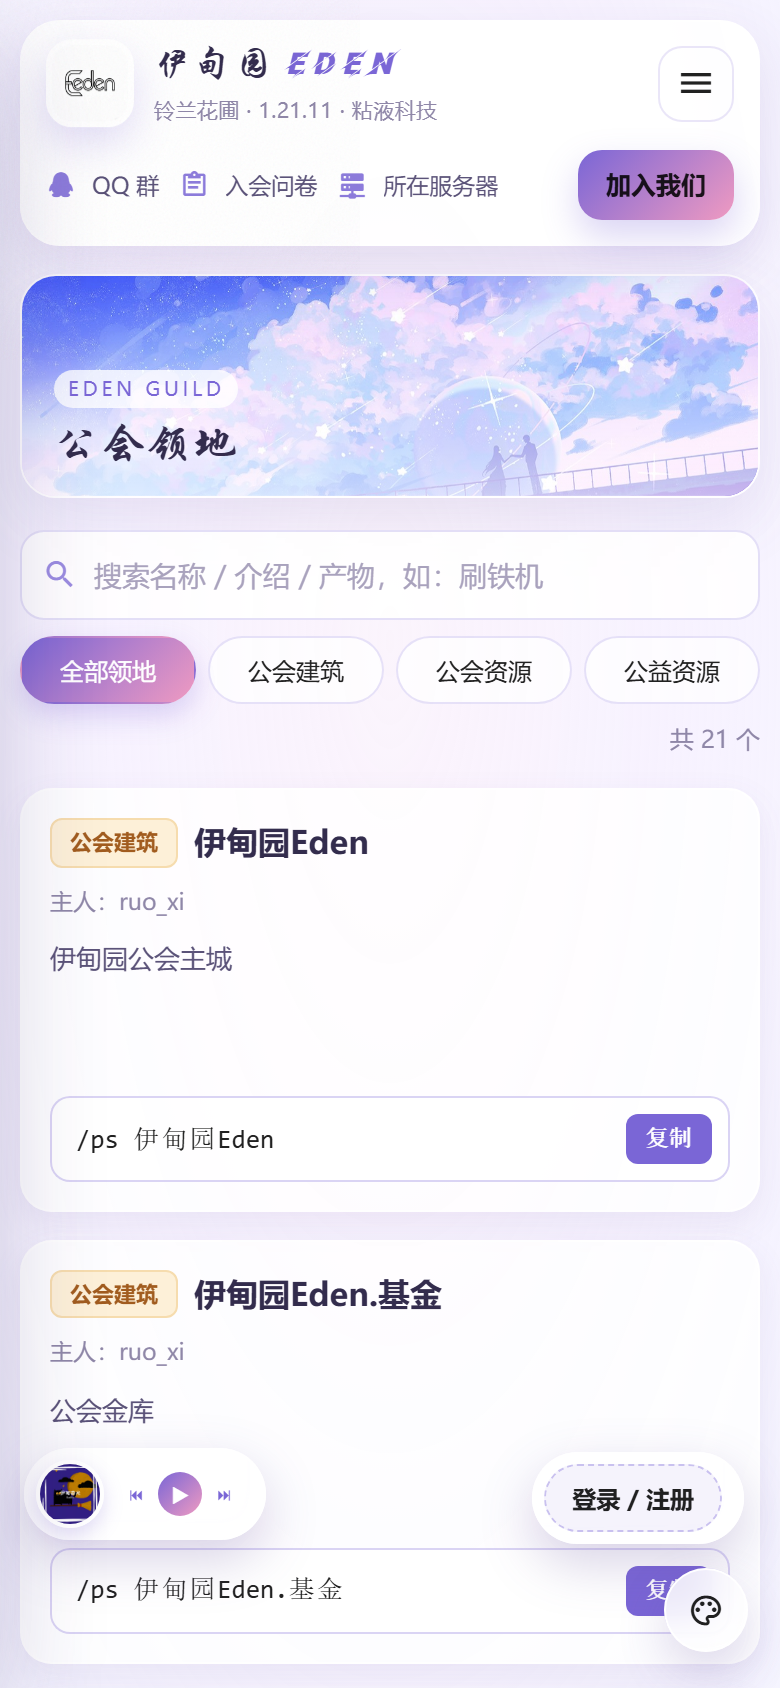
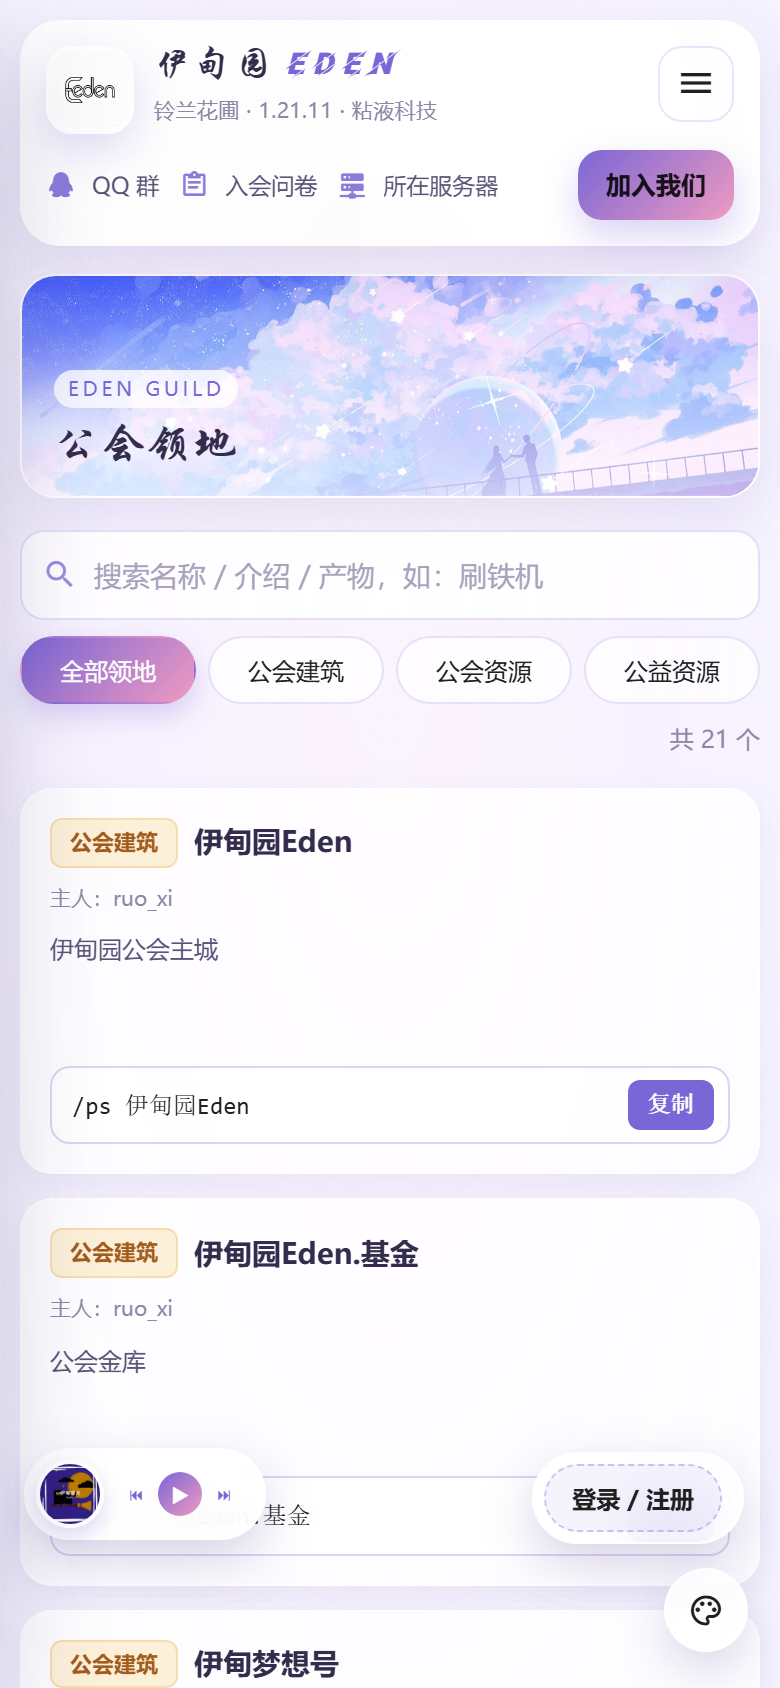
优化

diff --git a/public/css/app.less b/public/css/app.less
@@ -810,8 +810,8 @@ a.contact-row:hover {
 .territory {
   display: flex;
   flex-direction: column;
-  gap: 10px;
-  padding: 16px;
+  gap: 8px;
+  padding: 12px 13px;
   background: var(--eden-card-2);
   border: 1px solid var(--eden-border);
   border-radius: 16px;
@@ -844,7 +844,7 @@ a.contact-row:hover {
 
 .territory h3 {
   margin: 0;
-  font-size: 16px;
+  font-size: 14.5px;
   font-weight: 800;
   color: var(--eden-ink);
   word-break: break-word;
@@ -852,13 +852,13 @@ a.contact-row:hover {
 
 .territory .desc {
   margin: 0;
-  font-size: 13px;
+  font-size: 12px;
   color: var(--eden-ink-2);
 }
 
 .territory .owner {
   margin-left: auto;
-  font-size: 11.5px;
+  font-size: 10.5px;
   color: var(--eden-muted);
 }
 
@@ -868,9 +868,9 @@ a.contact-row:hover {
   gap: 8px;
   flex-wrap: nowrap;
   overflow: hidden;
-  padding: 8px 10px;
-  font-size: 12.5px;
-  line-height: 1.55;
+  padding: 6px 9px;
+  font-size: 11.5px;
+  line-height: 1.5;
   color: #1f7a68;
   background: rgba(76, 174, 135, 0.09);
   border: 1px solid rgba(76, 174, 135, 0.22);
@@ -899,12 +899,12 @@ a.contact-row:hover {
 .cmd {
   display: flex;
   align-items: center;
-  gap: 8px;
+  gap: 6px;
   width: 100%;
   margin-top: 2px;
-  padding: 8px 8px 8px 12px;
+  padding: 6px 7px 6px 10px;
   font-family: ui-monospace, SFMono-Regular, Menlo, Consolas, monospace;
-  font-size: 13px;
+  font-size: 12px;
   color: var(--eden-accent);
   background: rgba(255, 255, 255, 0.9);
   border: 1px solid rgba(122, 102, 214, 0.28);
@@ -2092,31 +2092,35 @@ html.has-bg-video .eden-veil {
   color: rgba(103, 84, 160, 0.32);
 }
 
-/* 双领地：两条指令并排显示 */
+/* 双维度：两条指令左右并排 */
 .cmd-label {
   margin-left: 6px;
   font-style: normal;
-  font-size: 10.5px;
+  font-size: 10px;
   color: var(--eden-muted);
 }
 
 .cmd-list {
   display: flex;
-  flex-direction: column;
+  flex-direction: row;
   gap: 6px;
   margin-top: 2px;
 }
 
 .cmd-list .cmd {
+  flex: 1 1 0;
+  min-width: 0;
   margin-top: 0;
+  padding: 6px 6px 6px 8px;
 }
 /* 公会建筑没有产物：留一段等高的空白，标签和底色都不可见 */
 .products-blank {
   visibility: hidden;
 }
 /* =========================================================================
-   侧栏内容整体缩小一档（只作用于 .eden-side 内部）
+   侧栏内容整体缩小一档（只作用于桌面端侧栏，移动端顶部卡片不受影响）
    ========================================================================= */
+@media (min-width: 1025px) {
 .eden-side .eden-logo {
   width: 58px;
   height: 58px;
@@ -2226,4 +2230,11 @@ html.has-bg-video .eden-veil {
   margin-top: 10px;
   padding: 8px 10px;
   font-size: 12.5px;
+}
+}
+
+/* 双维度卡片里两条指令的复制按钮小一点，保证并排不挤 */
+.cmd-list .cmd .copy {
+  padding: 3px 6px;
+  font-size: 10.5px;
 }

diff --git a/src/config.js b/src/config.js
@@ -141,8 +141,8 @@ const config = {
 		{ type: 'private', cmd: '伊甸园工业区.s', desc: '64 核黑金刚熔炉组', products: '烧炼产物（铁锭、金锭、石头等）', owner: 'guoguo' },
 		{ type: 'private', cmd: '伊甸园工业区.t', desc: '粘液刷铁机', products: '铁锭、铁块', owner: 'guoguo' },
 		{ type: 'private', cmd: 'player的刷铁机', desc: '生电刷铁机', products: '铁锭、基础电路板', owner: 'GamePlayer1' },
-		{ type: 'private', cmd: 'dl/gl', desc: '凋零骷髅塔（双领地）', products: '骨块、煤炭块、凋零骷髅头', owner: 'XIAOXINLI', cmds: [{ label: '产物', cmd: 'dl' }, { label: '挂机', cmd: 'gl' }] },
-		{ type: 'private', cmd: 'yf/tm', desc: '凋零骷髅塔（双领地）', products: '骨块、煤炭块、凋零骷髅头', owner: 'XIAOXINLI', cmds: [{ label: '产物', cmd: 'yf' }, { label: '挂机', cmd: 'tm' }] },
+		{ type: 'private', cmd: 'dl/gl', desc: '凋零骷髅塔（双维度）', products: '骨块、煤炭块、凋零骷髅头', owner: 'XIAOXINLI', cmds: [{ label: '产物', cmd: 'dl' }, { label: '挂机', cmd: 'gl' }] },
+		{ type: 'private', cmd: 'yf/tm', desc: '凋零骷髅塔（双维度）', products: '骨块、煤炭块、凋零骷髅头', owner: 'XIAOXINLI', cmds: [{ label: '产物', cmd: 'yf' }, { label: '挂机', cmd: 'tm' }] },
 		{ type: 'private', cmd: 'lbs', desc: '袭击塔', products: '红石粉、萤石粉、火药、糖、白色旗帜、蜘蛛眼、鞍、木棍、玻璃瓶', owner: 'XIAOXINLI' },
 		{ type: 'private', cmd: 'op', desc: '猪灵交易塔', products: '黑曜石、哭泣黑曜石、黑石、灵魂沙、石英、奇怪的下界粘液、失水恶魂、下界砖等', owner: 'XIAOXINLI' },
 		{ type: 'private', cmd: 'qybnc', desc: '潜影贝农场', products: '潜影壳', owner: 'XIAOXINLI' },

diff --git a/src/components/pages/PageTerritory.vue b/src/components/pages/PageTerritory.vue
@@ -1,4 +1,4 @@
-<template>
+<template>
   <div>
     <div class="toolbar">
       <label class="search">
@@ -41,7 +41,7 @@
         <div class="territory-top">
           <span class="type-tag" :class="t.type">{{ typeLabel(t.type) }}</span>
           <h3 v-html="hl(t.cmd)"></h3>
-          <span class="owner">主人：{{ t.owner || '公会用' }}</span>
+          <span class="owner">主人：{{ t.owner || '未知' }}</span>
         </div>
 
         <p class="desc" v-html="hl(t.desc)"></p>
@@ -257,8 +257,15 @@ export default {
 <style scoped>
 .territory-grid {
   display: grid;
-  grid-template-columns: repeat(auto-fill, minmax(320px, 1fr));
-  gap: 14px;
+  /* 桌面端固定三列，卡片小一点 */
+  grid-template-columns: repeat(3, minmax(0, 1fr));
+  gap: 12px;
+}
+
+@media (max-width: 1280px) {
+  .territory-grid {
+    grid-template-columns: repeat(2, minmax(0, 1fr));
+  }
 }
 
 .add-btn {
